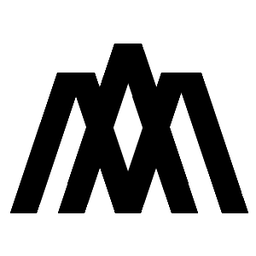
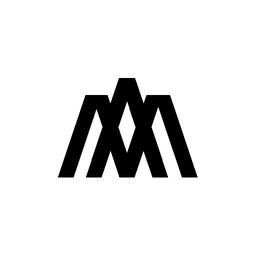
1.4.0b1
mise à jour UI

Changed region(s): [[0.0312, 0.1562, 0.9688, 0.8438]]

diff --git a/custom_components/dependency_graph/frontend/panel-v140.js b/custom_components/dependency_graph/frontend/panel-v140.js
@@ -46,6 +46,7 @@
  * Le logo est cadré dans un carré sans étirement de l'image source.
  * Le titre reste distinct des actions de maintenance.
  * Le bouton Analyser est situé dans l'en-tête.
+ * Son icône est le symbole de recyclage demandé par l’utilisateur.
  * La date affichée provient d'une ligne SQLite persistante.
  * Une date absente déclenche le style de mise en évidence.
  * Une date de plus de vingt-quatre heures déclenche aussi ce style.
@@ -77,7 +78,8 @@
  * Le bouton Suivant est désactivé sur la dernière page.
  * Le serveur impose une limite maximale de lignes par requête.
  * La version du nom de fichier JavaScript évite les anciens caches.
- * La version de l'URL du logo joue le même rôle.
+ * Le logo est inclus dans le JavaScript pour éviter toute erreur de chemin statique.
+ * Le PNG carré est également livré dans brand/ pour Home Assistant.
  * Le démarrage du panneau ne déclenche pas de reconstruction SQLite.
  * Une reconstruction explicite recharge ensuite les valeurs de filtres.
  * Le code privilégie des nœuds DOM sûrs pour les données utilisateur.
@@ -110,7 +112,7 @@ class DependencyGraphPanel extends HTMLElement {
     this.shadowRoot.innerHTML=`<style>
       :host{display:block;background:var(--primary-background-color);color:var(--primary-text-color);font:14px system-ui,sans-serif;min-height:100%}
       .wrap{width:calc(100% - 44px);max-width:none;margin:auto;padding:18px 0}
-      .filters{display:grid;grid-template-columns:repeat(4,minmax(150px,1fr));gap:12px;margin-bottom:12px}
+      /* Les filtres sont regroupés exclusivement dans les trois fieldsets. */
       .field{display:flex;flex-direction:column;gap:5px;min-width:0}.search{grid-column:span 4}.field label{font-size:12px;color:var(--secondary-text-color)}
       input,select,button{background:var(--card-background-color);color:var(--primary-text-color);border:1px solid var(--divider-color);border-radius:7px;padding:9px;font:inherit;min-width:0}
       button,th.sort{cursor:pointer}button:hover,a:hover,th.sort:hover{color:var(--primary-color)}
@@ -135,11 +137,11 @@ class DependencyGraphPanel extends HTMLElement {
       .checkboxes label{display:flex;align-items:center;gap:7px}
       .checkboxes input{min-width:auto}
       @media(max-width:1100px){.filter-groups{grid-template-columns:1fr}}
-      .heading{display:flex;align-items:center;gap:15px;margin-bottom:14px}.heading img{width:64px;height:64px;object-fit:contain;aspect-ratio:1/1;flex-shrink:0}.heading h1{margin:0;font-size:25px}.toolbar{display:flex;align-items:end;justify-content:flex-end}.toolbar button{width:100%}.sort:hover{text-decoration:underline}.sort{user-select:none}.meta-name{font-size:11px;color:var(--secondary-text-color);margin-top:3px}.object-cell{min-width:165px}.counter{font-variant-numeric:tabular-nums}.details-head{overflow-wrap:anywhere}
+      .heading{display:flex;align-items:center;gap:15px;margin-bottom:14px}.heading img{width:64px;height:64px;object-fit:contain;aspect-ratio:1/1;border-radius:8px;background:white;padding:3px;box-sizing:border-box;flex-shrink:0}.heading h1{margin:0;font-size:25px}.toolbar{display:flex;align-items:end;justify-content:flex-end}.toolbar button{width:100%}.sort:hover{text-decoration:underline}.sort{user-select:none}.meta-name{font-size:11px;color:var(--secondary-text-color);margin-top:3px}.object-cell{min-width:165px}.counter{font-variant-numeric:tabular-nums}.details-head{overflow-wrap:anywhere}
     </style><div class="wrap">
     <!-- Le logo est servi par HA depuis le répertoire local de l'intégration. -->
-    <header class="topbar"><div class="heading"><img src="/dependency_graph_static/logo.png?v=130" alt="Logo Dependency Graph"><h1>Graphe des dépendances</h1></div>
-      <div class="analysis-controls"><button id="analyze">⟳ Analyser</button><small id="analyzed-at">Dernière analyse : inconnue</small></div></header>
[1 lines of base64/hex data omitted]
+      <div class="analysis-controls"><button id="analyze">♻ Analyser</button><small id="analyzed-at">Dernière analyse : inconnue</small></div></header>
     <div class="field"><label for="query">Rechercher un objet</label><input id="query" placeholder="Identifiant ou nom (*ballon*)"></div>
     <!-- Trois groupes distincts : chaque groupe garde ses deux filtres côte à côte. -->
     <div class="filter-groups">
@@ -168,7 +170,8 @@ class DependencyGraphPanel extends HTMLElement {
     for(const id of ['family','domain','scope','category','floor','area'])this.$(id).addEventListener('change',()=>{this.offset=0;if(id==='family')this.domains();if(id==='scope')this.categories();if(id==='floor')this.areas();this.list()});
     this.shadowRoot.querySelectorAll('th[data-sort]').forEach(th=>th.onclick=()=>{const next=th.dataset.sort;this.descending=this.sort===next?!this.descending:false;this.sort=next;this.offset=0;this.updateSort();this.list()});
     this.$('missing-only').onchange=()=>{this.offset=0;this.list()};this.$('no-dependencies').onchange=()=>{this.offset=0;this.list()};
-    this.$('prev').onclick=()=>{this.offset=Math.max(0,this.offset-this.limit);this.list()};this.$('next').onclick=()=>{this.offset+=this.limit;this.list()};this.$('analyze').onclick=()=>this.analyze();
+    this.$('prev').onclick=()=>{this.offset=Math.max(0,this.offset-this.limit);this.list()};this.$('next').onclick=()=>{this.offset+=this.limit;this.list()};// Le bouton est branché une seule fois, au montage du panneau.
+    this.$('analyze').onclick=()=>this.analyze();
     if(this._hass)this.start();
   }
   // Point d’entrée unique pour appeler le serveur Home Assistant.
@@ -190,6 +193,17 @@ class DependencyGraphPanel extends HTMLElement {
    * la maintenance et le diagnostic depuis la console du navigateur.
    */
   fill(id,values){const el=this.$(id),selected=el.value;while(el.options.length>1)el.remove(1);for(const value of values){const opt=document.createElement('option');opt.value=value;opt.textContent=value;el.add(opt)}el.value=values.includes(selected)?selected:''}
+  // Chaque méthode ci-dessous est indépendante de l'analyse lourde.
+  // Les sélecteurs n'envoient que des critères de lecture au serveur.
+  // Les objets HA et leurs identifiants ne sont jamais modifiés.
+  // La recherche ne reconstruit pas la base et reste rapide.
+  // Les compteurs viennent de SQLite et non du nombre de lignes affichées.
+  // Les regroupements sont une convention de l'interface uniquement.
+  // Le filtre de localisation est hiérarchique : étage puis pièce.
+  // La valeur d'une pièce est son nom affiché dans le registre HA.
+  // Si une pièce est déplacée d'étage, le prochain scan met à jour la liste.
+  // L'utilisateur peut conserver ses autres filtres en changeant d'étage.
+  // Le serveur garde la responsabilité de valider toutes les requêtes.
   // Les domaines proposés changent avec la famille choisie.
   /**
    * domains : Déduit les domaines autorisés de la famille. Les tableaux décrivent la classification métier de l’interface, pas des objets nouveaux.
@@ -212,8 +226,13 @@ class DependencyGraphPanel extends HTMLElement {
    */
   areas(){
     const floor=this.$('floor').value;
+    /* floor_areas est renvoyé par le serveur : chaque ligne associe un étage et une pièce. */
+    /* On ne déduit jamais un étage du nom d’une pièce. */
     const pairs=this.values.floor_areas||[];
+    /* Sans étage choisi, toutes les pièces sont proposées. */
+    /* Avec un étage, seules ses pièces restent disponibles. */
     const names=floor?pairs.filter(p=>p.floor===floor).map(p=>p.area):this.values.area_name||[];
+    /* fill conserve la sélection si elle existe encore, sinon la remet à « Toutes ». */
     this.fill('area',[...new Set(names)].sort((a,b)=>a.localeCompare(b,'fr')));
   }
 
@@ -251,7 +270,99 @@ class DependencyGraphPanel extends HTMLElement {
    * Les étapes sont volontairement séparées de la présentation pour faciliter
    * la maintenance et le diagnostic depuis la console du navigateur.
    */
-  async list(){try{const args={query:this.$('query').value,family:this.$('family').value,domain:this.$('domain').value,scope:this.$('scope').value,category:this.$('category').value,floor:this.$('floor').value,area:this.$('area').value,offset:this.offset,limit:this.limit,sort:this.sort,descending:this.descending,missing_only:this.$('missing-only').checked,no_dependencies:this.$('no-dependencies').checked};const result=await this.api('list',args);this.$('total').textContent=`(${result.total})`;this.analysisTime(result.analyzed_at);const body=this.$('rows');body.replaceChildren();for(const obj of result.items){const tr=document.createElement('tr');const td=document.createElement('td');td.className='object-cell';td.append(this.link(obj.object_id));tr.append(td);for(const value of [obj.name,obj.floor_name,obj.area_name,obj.depend_on_count,obj.required_by_count]){const cell=document.createElement('td');cell.textContent=value??'—';if(typeof value==='number')cell.className='num';tr.append(cell)}const state=document.createElement('td');state.className='num';state.textContent=obj.missing_count?'⚠ '+obj.missing_count:'✓';state.title=obj.missing_count?obj.missing_count+' référence(s) manquante(s)':'Aucune référence manquante';if(obj.missing_count)state.classList.add('missing');tr.append(state);body.append(tr)}this.$('prev').disabled=this.offset===0;this.$('next').disabled=this.offset+this.limit>=result.total;this.$('page').textContent=result.total?`${this.offset+1}–${Math.min(this.offset+this.limit,result.total)} / ${result.total}`:'0';this.status(result.analyzed?'Analyse disponible':'Cliquez sur Analyser pour créer l’inventaire.')}catch(e){this.status('Erreur de liste : '+e.message)}}
+  async list() {
+    // 1. Préparer les critères de recherche choisis dans le panneau.
+    // Le texte et les listes sont lus au moment précis de la requête.
+    // On ne conserve pas de copie des filtres dans une seconde variable globale.
+    // Ainsi, l'état affiché correspond toujours aux critères envoyés à SQLite.
+    const args = {
+      query: this.$('query').value,
+      family: this.$('family').value,
+      domain: this.$('domain').value,
+      scope: this.$('scope').value,
+      category: this.$('category').value,
+      floor: this.$('floor').value,
+      area: this.$('area').value,
+      offset: this.offset,
+      limit: this.limit,
+      sort: this.sort,
+      descending: this.descending,
+      missing_only: this.$('missing-only').checked,
+      no_dependencies: this.$('no-dependencies').checked
+    };
+
+    try {
+      // 2. Demander au serveur une seule page d'objets.
+      // Le serveur est responsable du filtrage et du tri.
+      // Le navigateur n'a donc pas besoin de charger tous les objets en mémoire.
+      const result = await this.api('list', args);
+      this.$('total').textContent = `(${result.total})`;
+      this.analysisTime(result.analyzed_at);
+
+      // 3. Effacer uniquement les anciennes lignes du tableau.
+      // replaceChildren évite de concaténer du HTML potentiellement dangereux.
+      // Chaque valeur est insérée comme texte, jamais interprétée comme du code.
+      const body = this.$('rows');
+      body.replaceChildren();
+
+      for (const obj of result.items) {
+        // 4. Créer une ligne par objet retourné par SQLite.
+        // Le lien de la première colonne ouvre la fiche dans le panneau de droite.
+        // Les colonnes suivantes conservent explicitement étage et pièce.
+        const row = document.createElement('tr');
+        const identity = document.createElement('td');
+        identity.className = 'object-cell';
+        identity.append(this.link(obj.object_id));
+        row.append(identity);
+
+        // 5. Ajouter les propriétés et compteurs calculés côté Python.
+        // « Dépend de » exclut les rattachements organisationnels.
+        // « Utilisé par » inclut les membres des pièces/étages/catégories.
+        // Une valeur nulle s'affiche comme un tiret et non comme « null ».
+        const columns = [
+          obj.name, obj.floor_name, obj.area_name,
+          obj.depend_on_count, obj.required_by_count
+        ];
+        for (const value of columns) {
+          const cell = document.createElement('td');
+          cell.textContent = value ?? '—';
+          if (typeof value === 'number') cell.className = 'num';
+          row.append(cell);
+        }
+
+        // 6. Signaler une référence absente dans la dernière colonne.
+        // L'icône d'alerte est visible même sans ouvrir la fiche.
+        // Le survol donne le nombre exact de références manquantes.
+        const state = document.createElement('td');
+        state.className = 'num';
+        state.textContent = obj.missing_count ? '⚠ ' + obj.missing_count : '✓';
+        state.title = obj.missing_count
+          ? obj.missing_count + ' référence(s) manquante(s)'
+          : 'Aucune référence manquante';
+        if (obj.missing_count) state.classList.add('missing');
+        row.append(state);
+        body.append(row);
+      }
+
+      // 7. Mettre à jour les commandes de pagination.
+      // « Précédent » est interdit au début de la liste.
+      // « Suivant » est interdit quand il n'y a plus de page.
+      this.$('prev').disabled = this.offset === 0;
+      this.$('next').disabled = this.offset + this.limit >= result.total;
+      this.$('page').textContent = result.total
+        ? `${this.offset + 1}–${Math.min(this.offset + this.limit, result.total)} / ${result.total}`
+        : '0';
+
+      // 8. Confirmer la lecture de l'inventaire.
+      // La présence de la base n'entraîne pas une nouvelle analyse automatique.
+      this.status(result.analyzed
+        ? 'Analyse disponible'
+        : 'Cliquez sur Analyser pour créer l’inventaire.');
+    } catch (error) {
+      // Une erreur WebSocket reste visible plutôt que de vider silencieusement l'écran.
+      this.status('Erreur de liste : ' + error.message);
+    }
+  }
   // Tous les identifiants sont cliquables et ouvrent leur fiche.
   /**
    * link : Construit un lien interne vers la fiche de l’objet sans recharger la page Home Assistant.

diff --git a/custom_components/dependency_graph/service.py b/custom_components/dependency_graph/service.py
@@ -94,16 +94,21 @@ class GraphService:
             columns = {'object_id':'object_id','name':'name','domain':'domain','floor_name':'floor_name','area_name':'area_name','depend_on_count':'depend_on_count','required_by_count':'required_by_count','missing_count':'missing_count'}
             order = columns.get(sort, 'object_id')
             direction = 'DESC' if descending else 'ASC'
+            # Les compteurs fonctionnels sont séparés des liens de classement.
+            # Une pièce rattachée à un étage ne dépend pas fonctionnellement de lui.
+            # Le domaine Organisation HA force donc « Dépend de » à zéro.
+            # En revanche, « Utilisé par » inclut les objets classés dans une pièce.
+            # On ne mélange pas le nombre d'occurrences YAML avec les objets distincts.
             # La requête calcule les compteurs sans charger toutes les dépendances en Python.
             sql = f"""WITH counted AS (
                 SELECT o.object_id,o.name,o.domain,o.object_type,o.source_file,o.area_name,o.floor_name,o.category_name,
-                  (SELECT count(DISTINCT d.target_id) FROM dependencies d WHERE d.source_id=o.object_id OR d.source_id=o.entity_id) AS functional_out,
-                  (SELECT count(DISTINCT d.source_id) FROM dependencies d WHERE d.target_id=o.object_id OR d.target_id=o.entity_id) AS functional_in,
-                  (SELECT count(DISTINCT d.target_id) FROM dependencies d LEFT JOIN objects x ON x.object_id=d.target_id OR x.entity_id=d.target_id WHERE (d.source_id=o.object_id OR d.source_id=o.entity_id) AND x.object_id IS NULL) AS missing_count,
+                  (SELECT count(DISTINCT d.target_id) FROM dependencies d WHERE (d.source_id=o.object_id OR d.source_id=o.entity_id) AND d.reference_type NOT IN ('organisation','area','floor','category','label')) AS functional_out,
+                  (SELECT count(DISTINCT d.source_id) FROM dependencies d WHERE (d.target_id=o.object_id OR d.target_id=o.entity_id) AND d.reference_type NOT IN ('organisation','area','floor','category','label')) AS functional_in,
+                  (SELECT count(DISTINCT d.target_id) FROM dependencies d LEFT JOIN objects x ON x.object_id=d.target_id OR x.entity_id=d.target_id WHERE (d.source_id=o.object_id OR d.source_id=o.entity_id) AND d.reference_type NOT IN ('organisation','area','floor','category','label') AND x.object_id IS NULL) AS missing_count,
                   (CASE WHEN o.area_id IS NOT NULL AND o.domain!='area' THEN 1 ELSE 0 END) + (CASE WHEN o.category_id IS NOT NULL AND o.domain NOT IN ('category') THEN 1 ELSE 0 END) + (CASE WHEN o.floor_id IS NOT NULL AND o.domain='area' THEN 1 ELSE 0 END) AS org_out,
                   (SELECT count(*) FROM objects x WHERE (o.domain='area' AND x.area_id=substr(o.object_id,6) AND x.object_id!=o.object_id) OR (o.domain='floor' AND x.domain='area' AND x.floor_id=substr(o.object_id,7)) OR (o.domain='category' AND x.category_id=substr(o.object_id,instr(o.object_id,'.')+1+instr(substr(o.object_id,instr(o.object_id,'.')+1),'.')) AND x.object_id!=o.object_id)) AS org_in
                 FROM objects o WHERE {where}
-              ) SELECT *,functional_out AS depend_on_count,
+              ) SELECT *,CASE WHEN domain IN ('area','floor','category','label') THEN 0 ELSE functional_out END AS depend_on_count,
                   functional_in+CASE WHEN domain IN ('area','floor','category','label') THEN org_in ELSE 0 END AS required_by_count
               FROM counted
               WHERE (NOT ? OR missing_count > 0)
@@ -113,8 +118,6 @@ class GraphService:
             # exactement les mêmes filtres calculés que la requête de lignes.
             # Une sous-requête compte les résultats sans LIMIT/OFFSET.
             count_sql = sql.rsplit(' ORDER BY ', 1)[0]
-            count_sql = count_sql.replace('SELECT *,functional_out AS depend_on_count,',
-                'SELECT *,functional_out AS depend_on_count,')
             # Les deux booléens SQLite (0/1) sont liés via des paramètres.
             filtered_params = params + [int(missing_only), int(no_dependencies)]
             total = db.db.execute('SELECT COUNT(*) FROM (' + count_sql + ')', filtered_params).fetchone()[0]
@@ -196,6 +199,16 @@ class GraphService:
             result={}
             for col in ('domain','area_name','floor_name'):
                 result[col]=[r[0] for r in db.db.execute(f'SELECT DISTINCT {col} FROM objects WHERE {col} IS NOT NULL ORDER BY {col}')]
+            # Un couple (étage, pièce) provient directement des objets area.
+            # area.floor_id est enrichi depuis core.area_registry lors de l'analyse.
+            # floor_name et area_name sont des noms affichables, pas des identifiants.
+            # Le DISTINCT évite les doublons si plusieurs objets pointent vers la pièce.
+            # Les pièces sans étage ne sont affichées que lorsque « Tous les étages » est choisi.
+            # Le navigateur reçoit un tableau de dictionnaires simple à filtrer.
+            result['floor_areas'] = [
+                {'floor': row['floor_name'], 'area': row['name']}
+                for row in db.db.execute("SELECT DISTINCT floor_name, name FROM objects WHERE domain = 'area' AND floor_name IS NOT NULL AND name IS NOT NULL ORDER BY floor_name, name")
+            ]
             for scope in ('helpers','automation'):
                 result['category_'+scope]=[r[0] for r in db.db.execute('SELECT name FROM objects WHERE object_id LIKE ? ORDER BY name',(f'category.{scope}.%',))]
             return result

diff --git a/tests/test_engine.py b/tests/test_engine.py
@@ -52,6 +52,9 @@ class InterfaceFiltersTests(unittest.TestCase):
             db.add({'object_id':'sensor.test','domain':'sensor','object_type':'entity','source_type':'json','source_file':'core.entity_registry','name':'Test','entity_id':'sensor.test','attributes':{'area_id':'salon'}})
             db.db.execute("UPDATE objects SET floor_id='rdc',floor_name='RDC' WHERE object_id='area.salon'")
             db.db.execute("UPDATE objects SET area_id='salon',area_name='Salon',floor_name='RDC' WHERE object_id='sensor.test'")
+            # Cette référence simule un lien de classement présent dans la table.
+            # Elle ne doit pas devenir une dépendance fonctionnelle.
+            db.db.execute("INSERT INTO dependencies(source_id,target_id,source_file,yaml_path,reference_type) VALUES (?,?,?,?,?)", ('sensor.test','area.salon','core.entity_registry','area_id','organisation'))
             db.commit()
             db.close()
             result=service.list_objects()
@@ -62,3 +65,21 @@ class InterfaceFiltersTests(unittest.TestCase):
             self.assertEqual(by_id['floor.rdc']['required_by_count'],1)
             self.assertEqual(service.list_objects(no_dependencies=True)['total'],3)
             self.assertEqual(service.list_objects(missing_only=True)['total'],0)
+
+    def test_floor_filters_areas(self):
+        """La liste des pièces doit provenir du registre, avec l'étage réel."""
+        with tempfile.TemporaryDirectory() as tmp:
+            service = GraphService(tmp)
+            service.storage.mkdir(parents=True, exist_ok=True)
+            db = Database(service.db_path)
+            for oid, name, floor in [('area.salon','Salon','RDC'),('area.chambre','Chambre','1er')]:
+                db.add({'object_id':oid,'domain':'area','object_type':'area',
+                        'source_type':'json','source_file':'core.area_registry',
+                        'name':name,'attributes':{}})
+                db.db.execute('UPDATE objects SET floor_name=? WHERE object_id=?', (floor,oid))
+            db.commit()
+            db.close()
+            values = service.values()
+            self.assertIn({'floor':'RDC','area':'Salon'},values['floor_areas'])
+            self.assertIn({'floor':'1er','area':'Chambre'},values['floor_areas'])
+            self.assertNotIn({'floor':'RDC','area':'Chambre'},values['floor_areas'])

diff --git a/custom_components/dependency_graph/__init__.py b/custom_components/dependency_graph/__init__.py
@@ -19,7 +19,7 @@ async def async_setup_entry(hass,entry):
         ])
         await panel_custom.async_register_panel(
             hass,frontend_url_path=PANEL_PATH,webcomponent_name='dependency-graph-panel',
-            module_url='/dependency_graph_static/panel-v130.js',sidebar_title='Dépendances',
+            module_url='/dependency_graph_static/panel-v140.js',sidebar_title='Dépendances',
             sidebar_icon='mdi:graph-outline',require_admin=True,embed_iframe=False)
     return True
 

diff --git a/README.md b/README.md
@@ -39,3 +39,15 @@ python -m unittest discover -s tests -v
 ```
 
 La suite vérifie la compatibilité des imports du moteur, les données SQLite et le regroupement des liens.
+
+
+## Version 1.4.0b1 — vérifications UI
+
+- Logo carré (512×512) avec marges, sans étirement. Le panneau embarque son image pour ne pas dépendre d'une URL statique.
+- Trois cadres **Objets**, **Catégorie**, **Localisation**, deux listes par cadre.
+- Le serveur fournit `floor_areas` pour filtrer les pièces d'un étage.
+- Le compteur « Dépend de » ignore les relations organisationnelles.
+- La date de dernière analyse est persistée dans SQLite, sans analyse automatique.
+- Les chemins des actions et déclencheurs sont affichés à partir de 1.
+
+**Icône HACS :** certaines versions de HACS n'affichent pas les logos locaux de `brand/` dans la liste des dépôts personnalisés. Cela ne peut pas être corrigé par le JavaScript de ce panneau.

diff --git a/CHANGELOG.md b/CHANGELOG.md
@@ -1,3 +1,10 @@
+## 1.4.0b1
+
+- Correction réelle de `floor_areas` côté Python.
+- Logo carré et embarqué dans le panneau, nouveaux fichiers de marque.
+- Compteurs fonctionnels séparés des rattachements.
+- Nouveau fichier JavaScript pour contourner le cache.
+
 ## 1.2.0b1
 
 - Nouvelle interface large avec filtres Famille → Domaine, Étage → Pièce et catégories HA distinctes.
